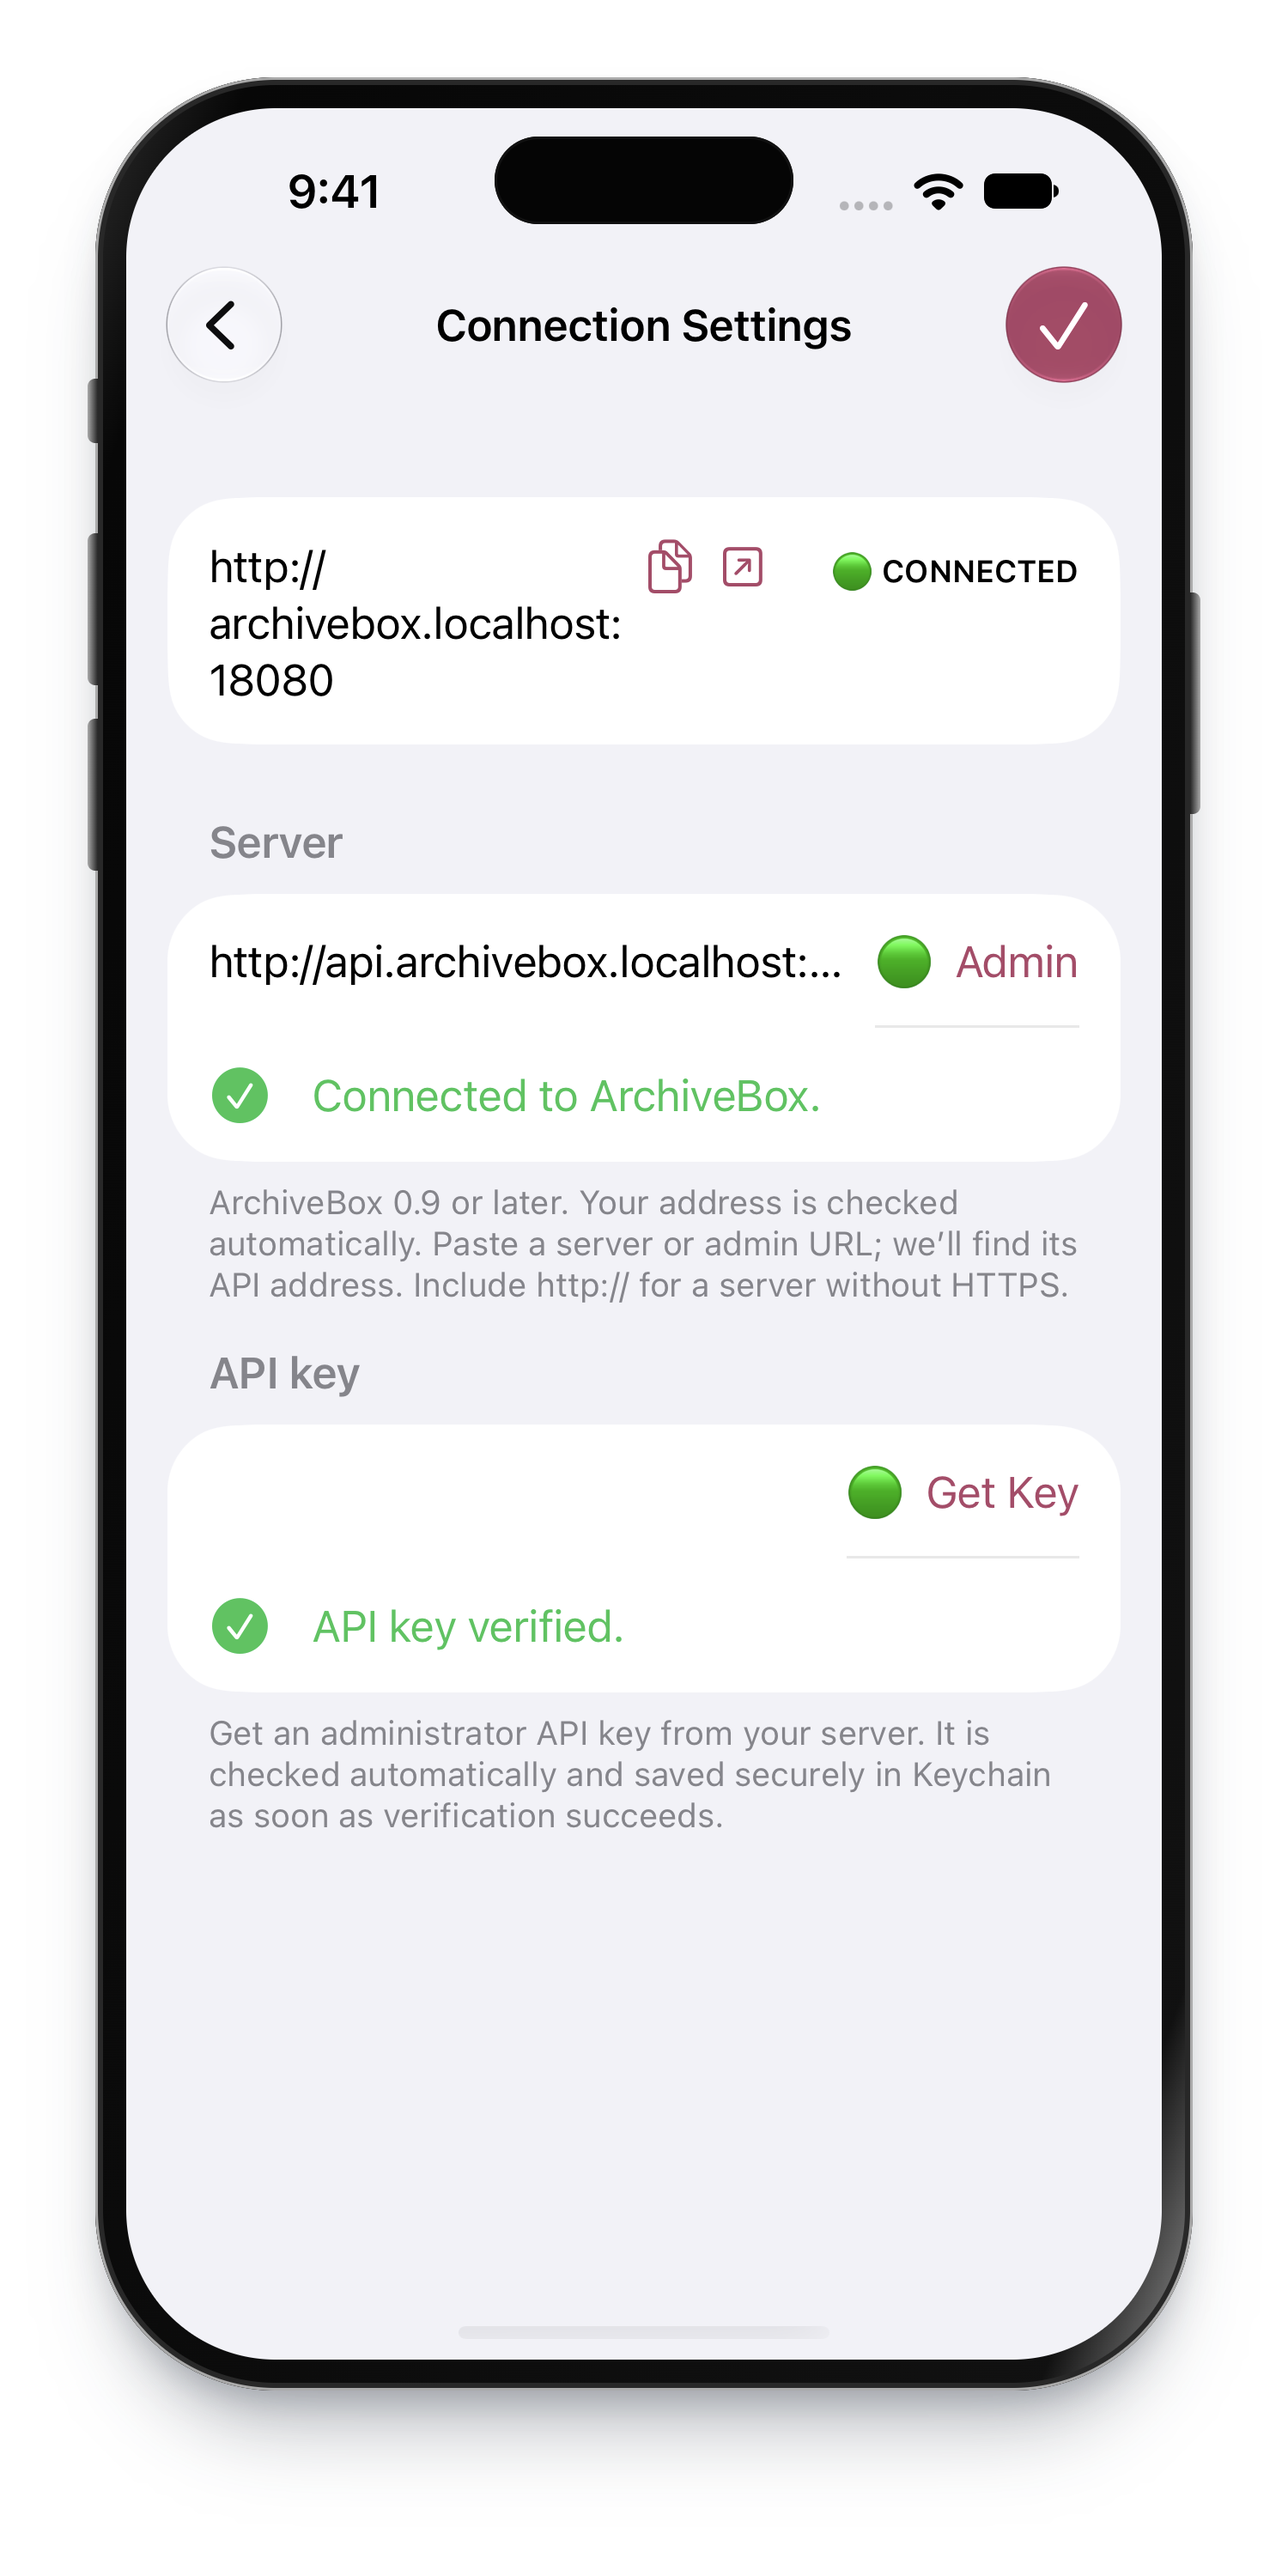
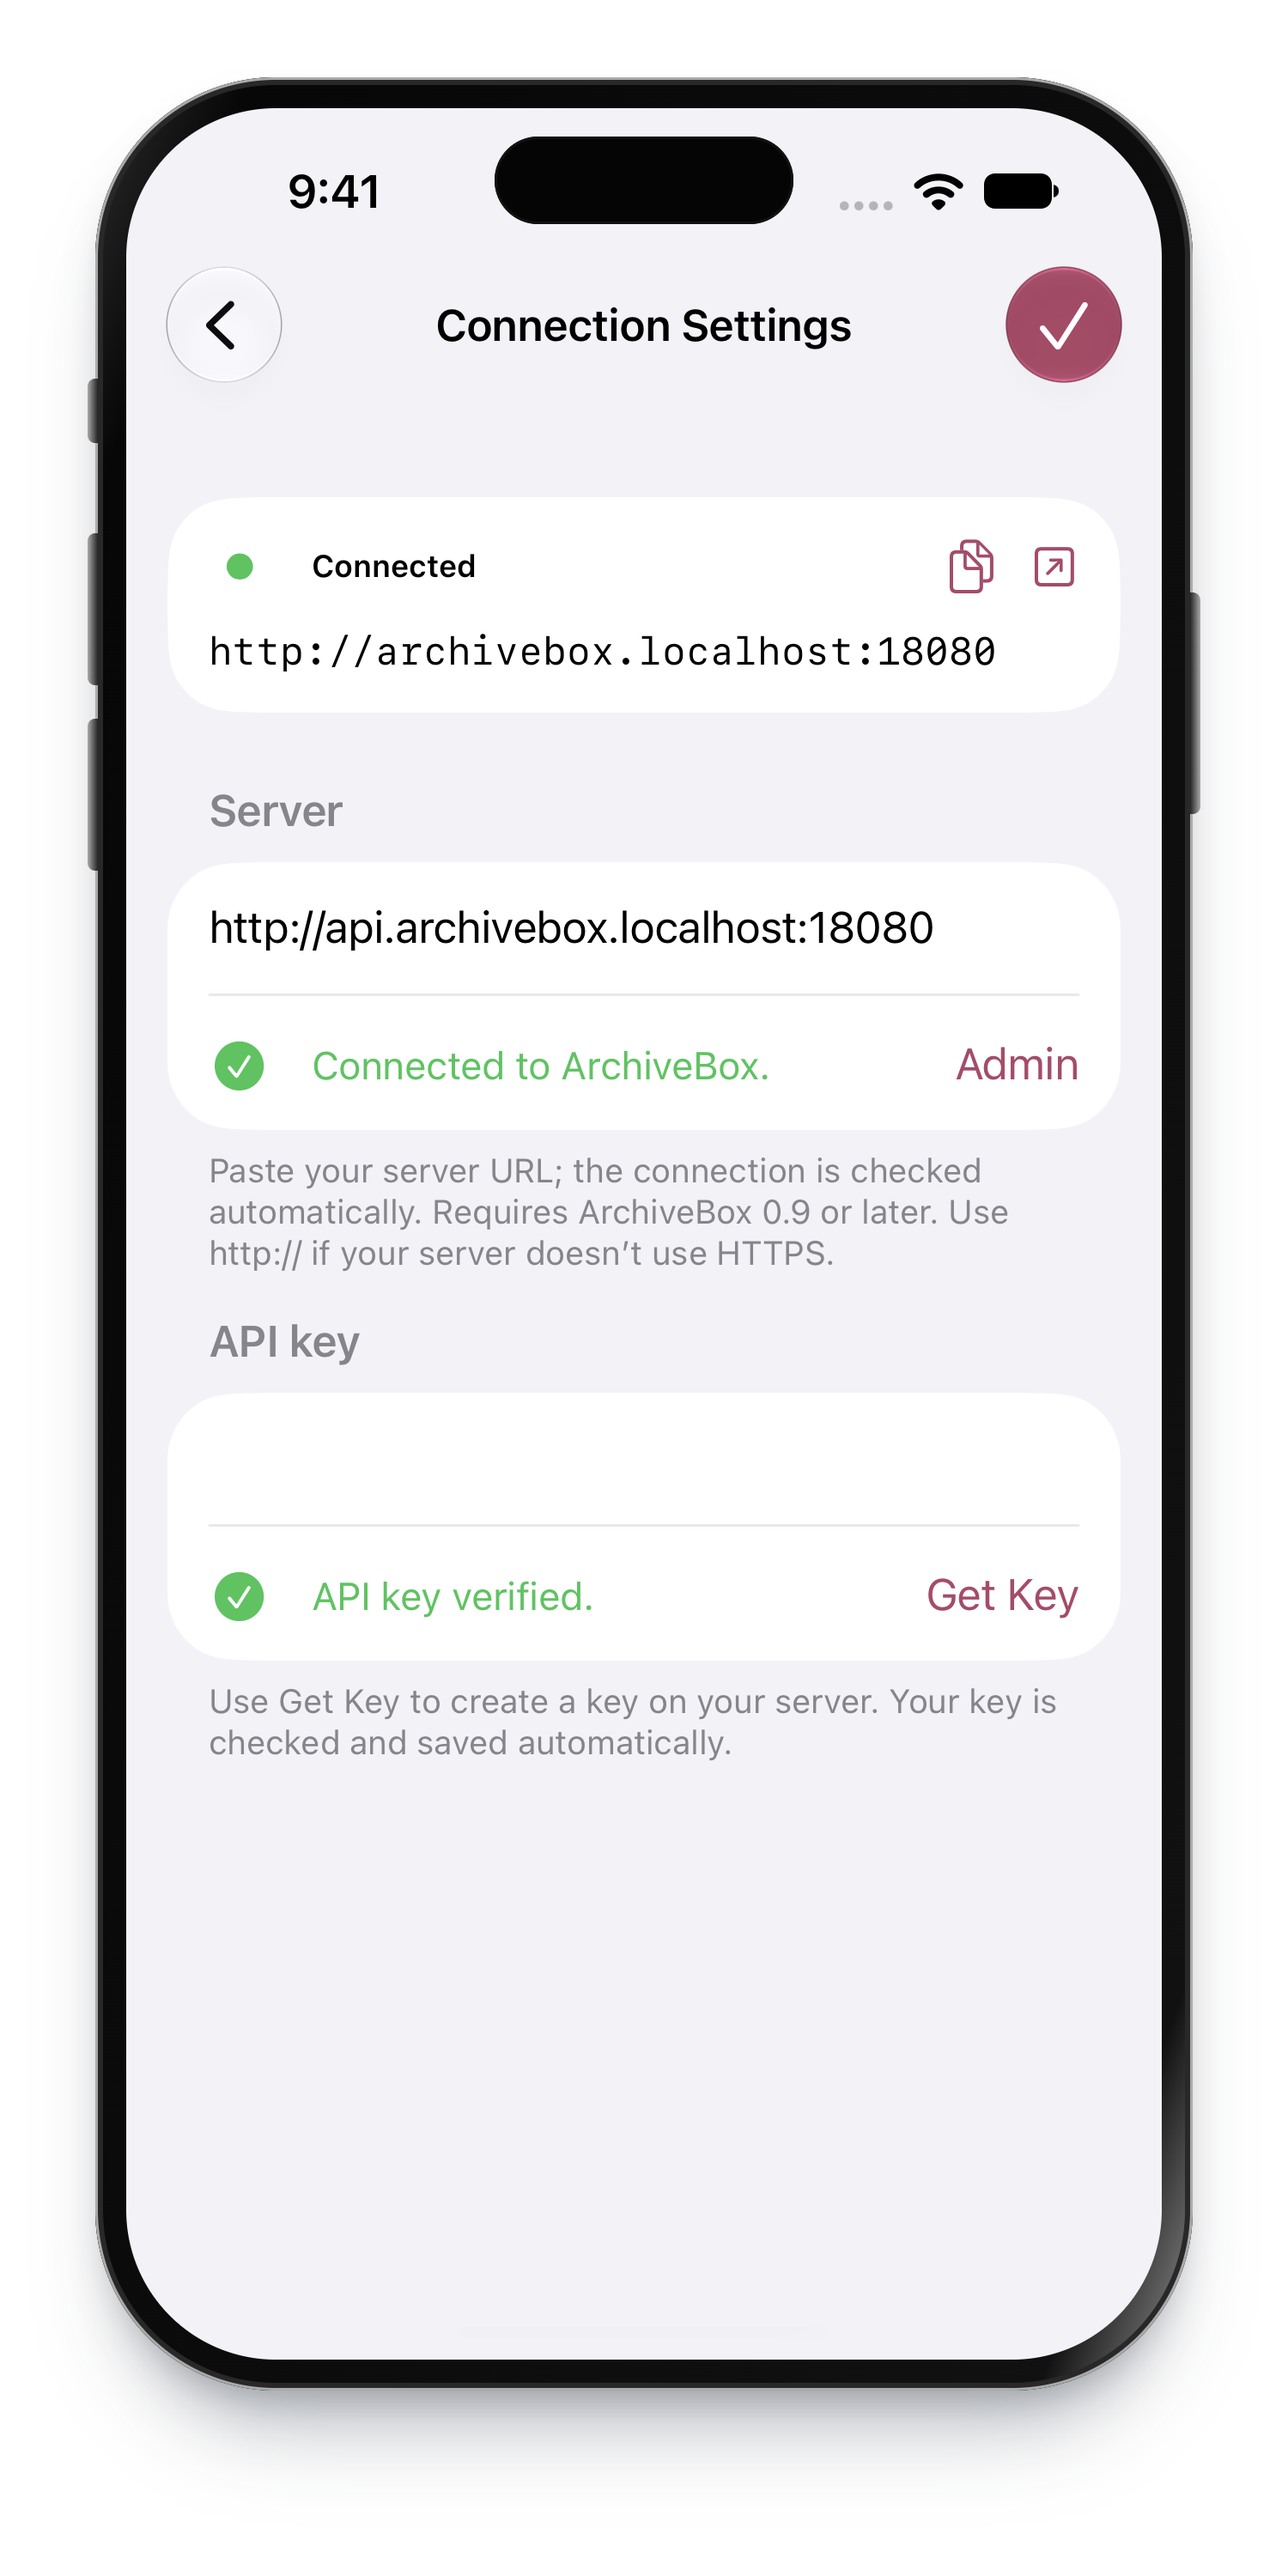
Give connection settings full-width fields and refresh mobile screenshots

diff --git a/App/SettingsView.swift b/App/SettingsView.swift
@@ -223,27 +223,42 @@ struct SettingsView: View {
     var body: some View {
         Form {
                 Section {
-                    HStack(alignment: .firstTextBaseline, spacing: 8) {
+                    VStack(alignment: .leading, spacing: 12) {
+                        HStack(spacing: 12) {
+                            Label {
+                                Text(model.verifiedServer == nil ? "Not connected" : "Connected")
+                            } icon: {
+                                Image(systemName: "circle.fill")
+                                    .font(.system(size: 8))
+                                    .foregroundStyle(model.verifiedServer == nil ? .red : .green)
+                            }
+                            .font(.caption.weight(.semibold))
+                            .accessibilityLabel(model.verifiedServer == nil ? "Server not connected" : "Server connected")
+                            Spacer(minLength: 8)
+                            if let url = model.displayedBaseURL {
+                                Button("Copy URL", systemImage: "doc.on.doc") {
+                                    #if os(macOS)
+                                    NSPasteboard.general.clearContents()
+                                    NSPasteboard.general.setString(url.absoluteString, forType: .string)
+                                    #else
+                                    UIPasteboard.general.string = url.absoluteString
+                                    #endif
+                                }.labelStyle(.iconOnly).buttonStyle(.borderless)
+                                Button("Open server", systemImage: "arrow.up.right.square") { model.openAdmin(url) }
+                                    .labelStyle(.iconOnly).buttonStyle(.borderless)
+                            }
+                        }
+                        // Give addresses the full row: action buttons must not squeeze
+                        // a hostname into fragments on phones or at larger text sizes.
                         if let url = model.displayedBaseURL {
-                            Text(url.absoluteString).textSelection(.enabled)
+                            Text(url.absoluteString)
+                                .font(.subheadline.monospaced())
+                                .textSelection(.enabled)
+                                .fixedSize(horizontal: false, vertical: true)
                                 .accessibilityIdentifier("configuredBaseURL")
-                            Button("Copy URL", systemImage: "doc.on.doc") {
-                                #if os(macOS)
-                                NSPasteboard.general.clearContents()
-                                NSPasteboard.general.setString(url.absoluteString, forType: .string)
-                                #else
-                                UIPasteboard.general.string = url.absoluteString
-                                #endif
-                            }.labelStyle(.iconOnly).buttonStyle(.borderless)
-                            Button("Open server", systemImage: "arrow.up.right.square") { model.openAdmin(url) }
-                                .labelStyle(.iconOnly).buttonStyle(.borderless)
                         } else {
                             Text("No server configured").foregroundStyle(.secondary)
                         }
-                        Spacer(minLength: 8)
-                        Text(model.verifiedServer == nil ? "🔴 NOT CONNECTED" : "🟢 CONNECTED")
-                            .font(.caption.weight(.semibold))
-                            .accessibilityLabel(model.verifiedServer == nil ? "Server not connected" : "Server connected")
                     }
                 }
                 #if os(macOS)
@@ -260,46 +275,49 @@ struct SettingsView: View {
 
                 if showRemoteFields {
                     Section {
-                        HStack {
-                            TextField("Server URL", text: Binding(get: { model.serverText }, set: {
-                                model.serverChanged(); model.serverText = $0; model.scheduleValidation()
-                            }), prompt: Text("https://archivebox.example.com"))
-                            #if os(iOS)
-                            .textContentType(.URL).keyboardType(.URL).textInputAutocapitalization(.never)
-                            #endif
-                            .autocorrectionDisabled().focused($focusedField, equals: .server)
-                            .accessibilityIdentifier("serverURL")
-                            if model.verifiedServer != nil { Text("🟢").accessibilityLabel("Server connected") }
-                            else if model.serverError != nil { Text("🔴").accessibilityLabel("Server unreachable") }
-                            else if model.busy { ProgressView().controlSize(.small) }
+                        TextField("Server URL", text: Binding(get: { model.serverText }, set: {
+                            model.serverChanged(); model.serverText = $0; model.scheduleValidation()
+                        }), prompt: Text("https://archivebox.example.com"), axis: .vertical)
+                        #if os(iOS)
+                        .textContentType(.URL).keyboardType(.URL).textInputAutocapitalization(.never)
+                        #endif
+                        .lineLimit(1...3)
+                        .textFieldStyle(.plain)
+                        .autocorrectionDisabled().focused($focusedField, equals: .server)
+                        .accessibilityIdentifier("serverURL")
+                        HStack(alignment: .firstTextBaseline) {
+                            if let message = model.serverMessage { status(message).font(.subheadline) }
+                            else if model.busy { ProgressView("Checking server…").controlSize(.small) }
+                            Spacer(minLength: 12)
                             Button("Admin") { model.openAdmin(model.adminURL) }
+                                .buttonStyle(.borderless)
                                 .disabled(model.adminURL == nil).accessibilityIdentifier("openAdmin")
                         }
-                        if let message = model.serverMessage { status(message) }
                         if let error = model.serverError { Text(error).foregroundStyle(.red) }
                     } header: { Text("Server") } footer: {
-                        Text("ArchiveBox 0.9 or later. Your address is checked automatically. Paste a server or admin URL; we’ll find its API address. Include http:// for a server without HTTPS.")
+                        Text("Paste your server URL; the connection is checked automatically. Requires ArchiveBox 0.9 or later. Use http:// if your server doesn’t use HTTPS.")
                     }
                 }
                 Section {
-                    HStack {
-                        SecureField("API key", text: Binding(get: { model.tokenText }, set: {
-                            model.tokenChanged(); model.tokenText = $0; model.scheduleValidation()
-                        }), prompt: Text("••••••••••••••••").foregroundStyle(.tertiary))
-                        #if os(iOS)
-                        .textInputAutocapitalization(.never)
-                        #endif
-                        .autocorrectionDisabled().focused($focusedField, equals: .token)
-                        .accessibilityIdentifier("apiKey")
-                        if model.verifiedToken != nil { Text("🟢").accessibilityLabel("API key verified") }
-                        else if model.tokenError != nil { Text("🔴").accessibilityLabel("API key rejected") }
+                    SecureField("API key", text: Binding(get: { model.tokenText }, set: {
+                        model.tokenChanged(); model.tokenText = $0; model.scheduleValidation()
+                    }), prompt: Text("Paste your API key"))
+                    #if os(iOS)
+                    .textInputAutocapitalization(.never)
+                    #endif
+                    .textFieldStyle(.plain)
+                    .autocorrectionDisabled().focused($focusedField, equals: .token)
+                    .accessibilityIdentifier("apiKey")
+                    HStack(alignment: .firstTextBaseline) {
+                        if let message = model.tokenMessage { status(message).font(.subheadline) }
+                        Spacer(minLength: 12)
                         Button("Get Key") { model.openAdmin(model.apiKeysURL) }
+                            .buttonStyle(.borderless)
                             .disabled(model.apiKeysURL == nil).accessibilityIdentifier("getAPIKey")
                     }
-                    if let message = model.tokenMessage { status(message) }
                     if let error = model.tokenError { Text(error).foregroundStyle(.red) }
                 } header: { Text("API key") } footer: {
-                    Text("Get an administrator API key from your server. It is checked automatically and saved securely in Keychain as soon as verification succeeds.")
+                    Text("Use Get Key to create a key on your server. Your key is checked and saved automatically.")
                 }
 
 

diff --git a/README.md b/README.md
@@ -33,7 +33,7 @@
 
 <div class="device-pair" align="center">
 <a href="docs/screenshots/home-iphone.png"><img src="docs/screenshots/home-iphone.png" width="300" loading="lazy" alt="ArchiveBox on iPhone: Add URLs, AI Agent, collection and admin screens, with a connected server"></a>
-<a href="docs/screenshots/connection-iphone.png"><img src="docs/screenshots/connection-iphone.png" width="300" loading="lazy" alt="Connection Settings on iPhone with a verified server URL and API key"></a>
+<a href="docs/screenshots/connection-iphone.png?v=2"><img src="docs/screenshots/connection-iphone.png?v=2" width="300" loading="lazy" alt="Connection Settings on iPhone with a verified server URL and API key"></a>
 </div>
 
 <div class="feature" markdown="1">
@@ -110,7 +110,7 @@ Your saved archive stays on your Mac when you quit either app.
 
 ## Save from your browser, too
 
-<p class="phone-screenshot" align="right"><a href="docs/screenshots/extension-iphone.png"><img src="docs/screenshots/extension-iphone.png" width="280" loading="lazy" alt="The ArchiveBox browser extension in mobile Safari, showing a page successfully archived to the server"></a></p>
+<p class="phone-screenshot" align="right"><a href="docs/screenshots/extension-iphone.png?v=2"><img src="docs/screenshots/extension-iphone.png?v=2" width="280" loading="lazy" alt="The ArchiveBox browser extension in mobile Safari, showing a page successfully archived to the server"></a></p>
 
 **Collect from Safari, Chrome, Firefox, Brave, and Edge with the ArchiveBox browser extension.**
 
